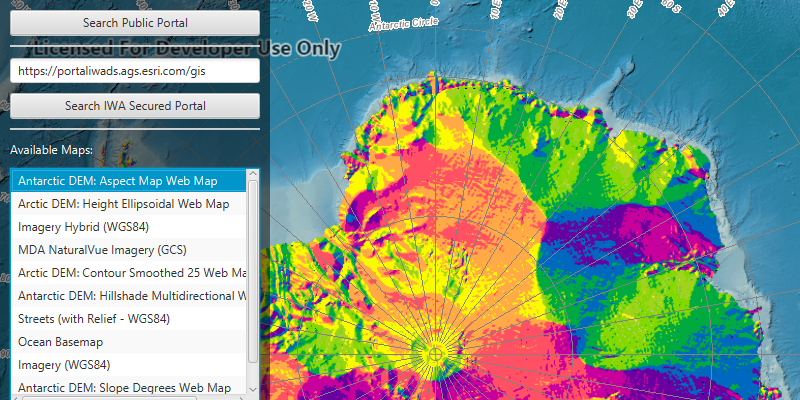
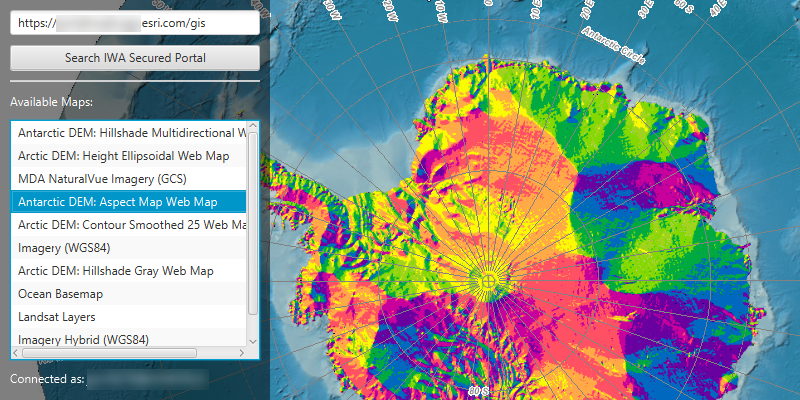
remove public search, refactoring

diff --git a/portal/integrated_windows_authentication/src/main/java/com/esri/samples/integrated_windows_authentication/IntegratedWindowsAuthenticationController.java b/portal/integrated_windows_authentication/src/main/java/com/esri/samples/integrated_windows_authentication/IntegratedWindowsAuthenticationController.java
@@ -52,8 +52,6 @@ public class IntegratedWindowsAuthenticationController {
   @FXML private Text loadWebMapTextView;
 
   private Portal iwaSecuredPortal;
-  private Portal publicPortal;
-  private boolean usingPublicPortal;
 
   public void initialize() {
     try {
@@ -67,9 +65,6 @@ public class IntegratedWindowsAuthenticationController {
       // set authentication challenge handler
       AuthenticationManager.setAuthenticationChallengeHandler(new IWAChallengeHandler());
 
-      // keep hold of the public portal the will be searched, to allow retrieving portal items later
-      publicPortal = new Portal("http://www.arcgis.com");
-
       // add a listener to the map results list view that loads the map on selection
       resultsListView.getSelectionModel().selectedItemProperty().addListener((obs, oldValue, newValue) -> {
         if (resultsListView.getSelectionModel().getSelectedItem() != null) {
@@ -79,16 +74,8 @@ public class IntegratedWindowsAuthenticationController {
           // get the portal item ID from the selected list view item
           String selectedItemId = resultsListView.getSelectionModel().getSelectedItem().getKey();
 
-          // determine if using the public or secured portal; get the appropriate object reference
-          Portal portal;
-          if (usingPublicPortal) {
-            portal = publicPortal;
-          } else {
-            portal = iwaSecuredPortal;
-          }
-
           // use the item ID to create a PortalItem from the portal
-          PortalItem portalItem = new PortalItem(portal, selectedItemId);
+          PortalItem portalItem = new PortalItem(iwaSecuredPortal, selectedItemId);
 
           if (portalItem != null) {
             // create a Map using the web map (portal item)
@@ -118,100 +105,72 @@ public class IntegratedWindowsAuthenticationController {
   }
 
   /**
-   * Handles searching a public portal.
+   * Handles searching the provided IWA secured portal.
    */
   @FXML
-  private void handleSearchPublicPress() {
-    // set a variable indicating that the portal is a public portal, to allow retrieving portal items later
-    usingPublicPortal = true;
-    // search the public portal
-    searchPortal(publicPortal);
-  }
-
-  /**
-   * Handles searching a secure portal.
-   */
-  @FXML
-  private void handleSearchSecurePress() {
+  private void handleSearchPortalPress() {
     // check for a url in the URL field
     if (!portalUrlTextField.getText().isEmpty()) {
       // keep hold of the portal we are searching and set a variable indicating that this is a secure portal, to allow retrieving portal items later
       iwaSecuredPortal = new Portal(portalUrlTextField.getText(), true);
-      usingPublicPortal = false;
-      // search the IWA-secured portal, the user may be challenged for access
-      searchPortal(iwaSecuredPortal);
+      
+      // clear any existing items in the list view
+      resultsListView.getItems().clear();
+
+      // clear the information about the previously loaded map
+      loadWebMapTextView.setText("");
+
+      // show portal load state
+      progressIndicator.setVisible(true);
+      loadStateTextView.setText("Searching for web map items on the portal at " + iwaSecuredPortal.getUri());
+
+      // load the portal items
+      iwaSecuredPortal.loadAsync();
+      iwaSecuredPortal.addDoneLoadingListener(() -> {
+        if (iwaSecuredPortal.getLoadStatus() == LoadStatus.LOADED) {
+          try {
+            // update load state in UI with the portal URI
+            loadStateTextView.setText("Connected to the portal on " + new URI(iwaSecuredPortal.getUri()).getHost());
+          } catch (URISyntaxException e) {
+            new Alert(Alert.AlertType.ERROR, "Error getting URI from portal: " + e.getMessage()).show();
+          }
+
+          // report the user name used for this connection
+          if (iwaSecuredPortal.getUser() != null) {
+            loadStateTextView.setText("Connected as: " + iwaSecuredPortal.getUser().getUsername());
+          } else {
+            // if connecting to an unsecured portal, no user credentials are needed to authenticate access
+            loadStateTextView.setText("Connected as: Anonymous");
+          }
+
+          // search the portal for web maps
+          ListenableFuture<PortalQueryResultSet<PortalItem>> portalItemResultFuture = iwaSecuredPortal.findItemsAsync(new PortalQueryParameters("type:(\"web map\" NOT \"web mapping application\")"));
+          portalItemResultFuture.addDoneListener(() -> {
+            try {
+              // get the result
+              PortalQueryResultSet<PortalItem> portalItemSet = portalItemResultFuture.get();
+              List<PortalItem> portalItems = portalItemSet.getResults();
+              // add the IDs and titles of the portal items to the list view
+              portalItems.forEach(portalItem -> resultsListView.getItems().add(new Pair<>(portalItem.getItemId(), portalItem.getTitle())));
+
+            } catch (ExecutionException | InterruptedException e) {
+              new Alert(Alert.AlertType.ERROR, "Error getting portal item set from portal: " + e.getMessage()).show();
+            }
+            // hide the progress indicator
+            progressIndicator.setVisible(false);
+          });
+
+        } else {
+          // hide the progress indicator and reset the load state text
+          progressIndicator.setVisible(false);
+          loadStateTextView.setText("");
+          // report error
+          new Alert(Alert.AlertType.ERROR, "Portal sign in failed: " + iwaSecuredPortal.getLoadError().getCause().getMessage()).show();
+        }
+      });
     } else {
       new Alert(Alert.AlertType.ERROR, "Portal URL is empty. Please enter a portal URL.").show();
     }
-  }
-
-  /**
-   * Search the given portal for its portal items and display their titles in a list view.
-   *
-   * @param portal to search
-   */
-  private void searchPortal(Portal portal) {
-
-    // check if the portal is null
-    if (portal == null) {
-      new Alert(Alert.AlertType.ERROR, "No portal provided").show();
-      return;
-    }
-
-    // clear any existing items in the list view
-    resultsListView.getItems().clear();
-
-    // clear the information about the previously loaded map
-    loadWebMapTextView.setText("");
-
-    // show portal load state
-    progressIndicator.setVisible(true);
-    loadStateTextView.setText("Searching for web map items on the portal at " + portal.getUri());
-
-    // load the portal items
-    portal.loadAsync();
-    portal.addDoneLoadingListener(() -> {
-      if (portal.getLoadStatus() == LoadStatus.LOADED) {
-        try {
-          // update load state in UI with the portal URI
-          loadStateTextView.setText("Connected to the portal on " + new URI(portal.getUri()).getHost());
-        } catch (URISyntaxException e) {
-          new Alert(Alert.AlertType.ERROR, "Error getting URI from portal: " + e.getMessage()).show();
-        }
-
-        // report the user name used for this connection
-        if (portal.getUser() != null) {
-          loadStateTextView.setText("Connected as: " + portal.getUser().getUsername());
-        } else {
-          // if connecting to an unsecured portal, no user credentials are needed to authenticate access
-          loadStateTextView.setText("Connected as: Anonymous");
-        }
-
-        // search the portal for web maps
-        ListenableFuture<PortalQueryResultSet<PortalItem>> portalItemResultFuture = portal.findItemsAsync(new PortalQueryParameters("type:(\"web map\" NOT \"web mapping application\")"));
-        portalItemResultFuture.addDoneListener(() -> {
-          try {
-            // get the result
-            PortalQueryResultSet<PortalItem> portalItemSet = portalItemResultFuture.get();
-            List<PortalItem> portalItems = portalItemSet.getResults();
-            // add the IDs and titles of the portal items to the list view
-            portalItems.forEach(portalItem -> resultsListView.getItems().add(new Pair<>(portalItem.getItemId(), portalItem.getTitle())));
-
-          } catch (ExecutionException | InterruptedException e) {
-            new Alert(Alert.AlertType.ERROR, "Error getting portal item set from portal: " + e.getMessage()).show();
-          }
-          // hide the progress indicator
-          progressIndicator.setVisible(false);
-        });
-
-      } else {
-        // hide the progress indicator and reset the load state text
-        progressIndicator.setVisible(false);
-        loadStateTextView.setText("");
-        // report error
-        new Alert(Alert.AlertType.ERROR, "Portal sign in failed: " + portal.getLoadError().getCause().getMessage()).show();
-      }
-    });
   }
 
   /**
